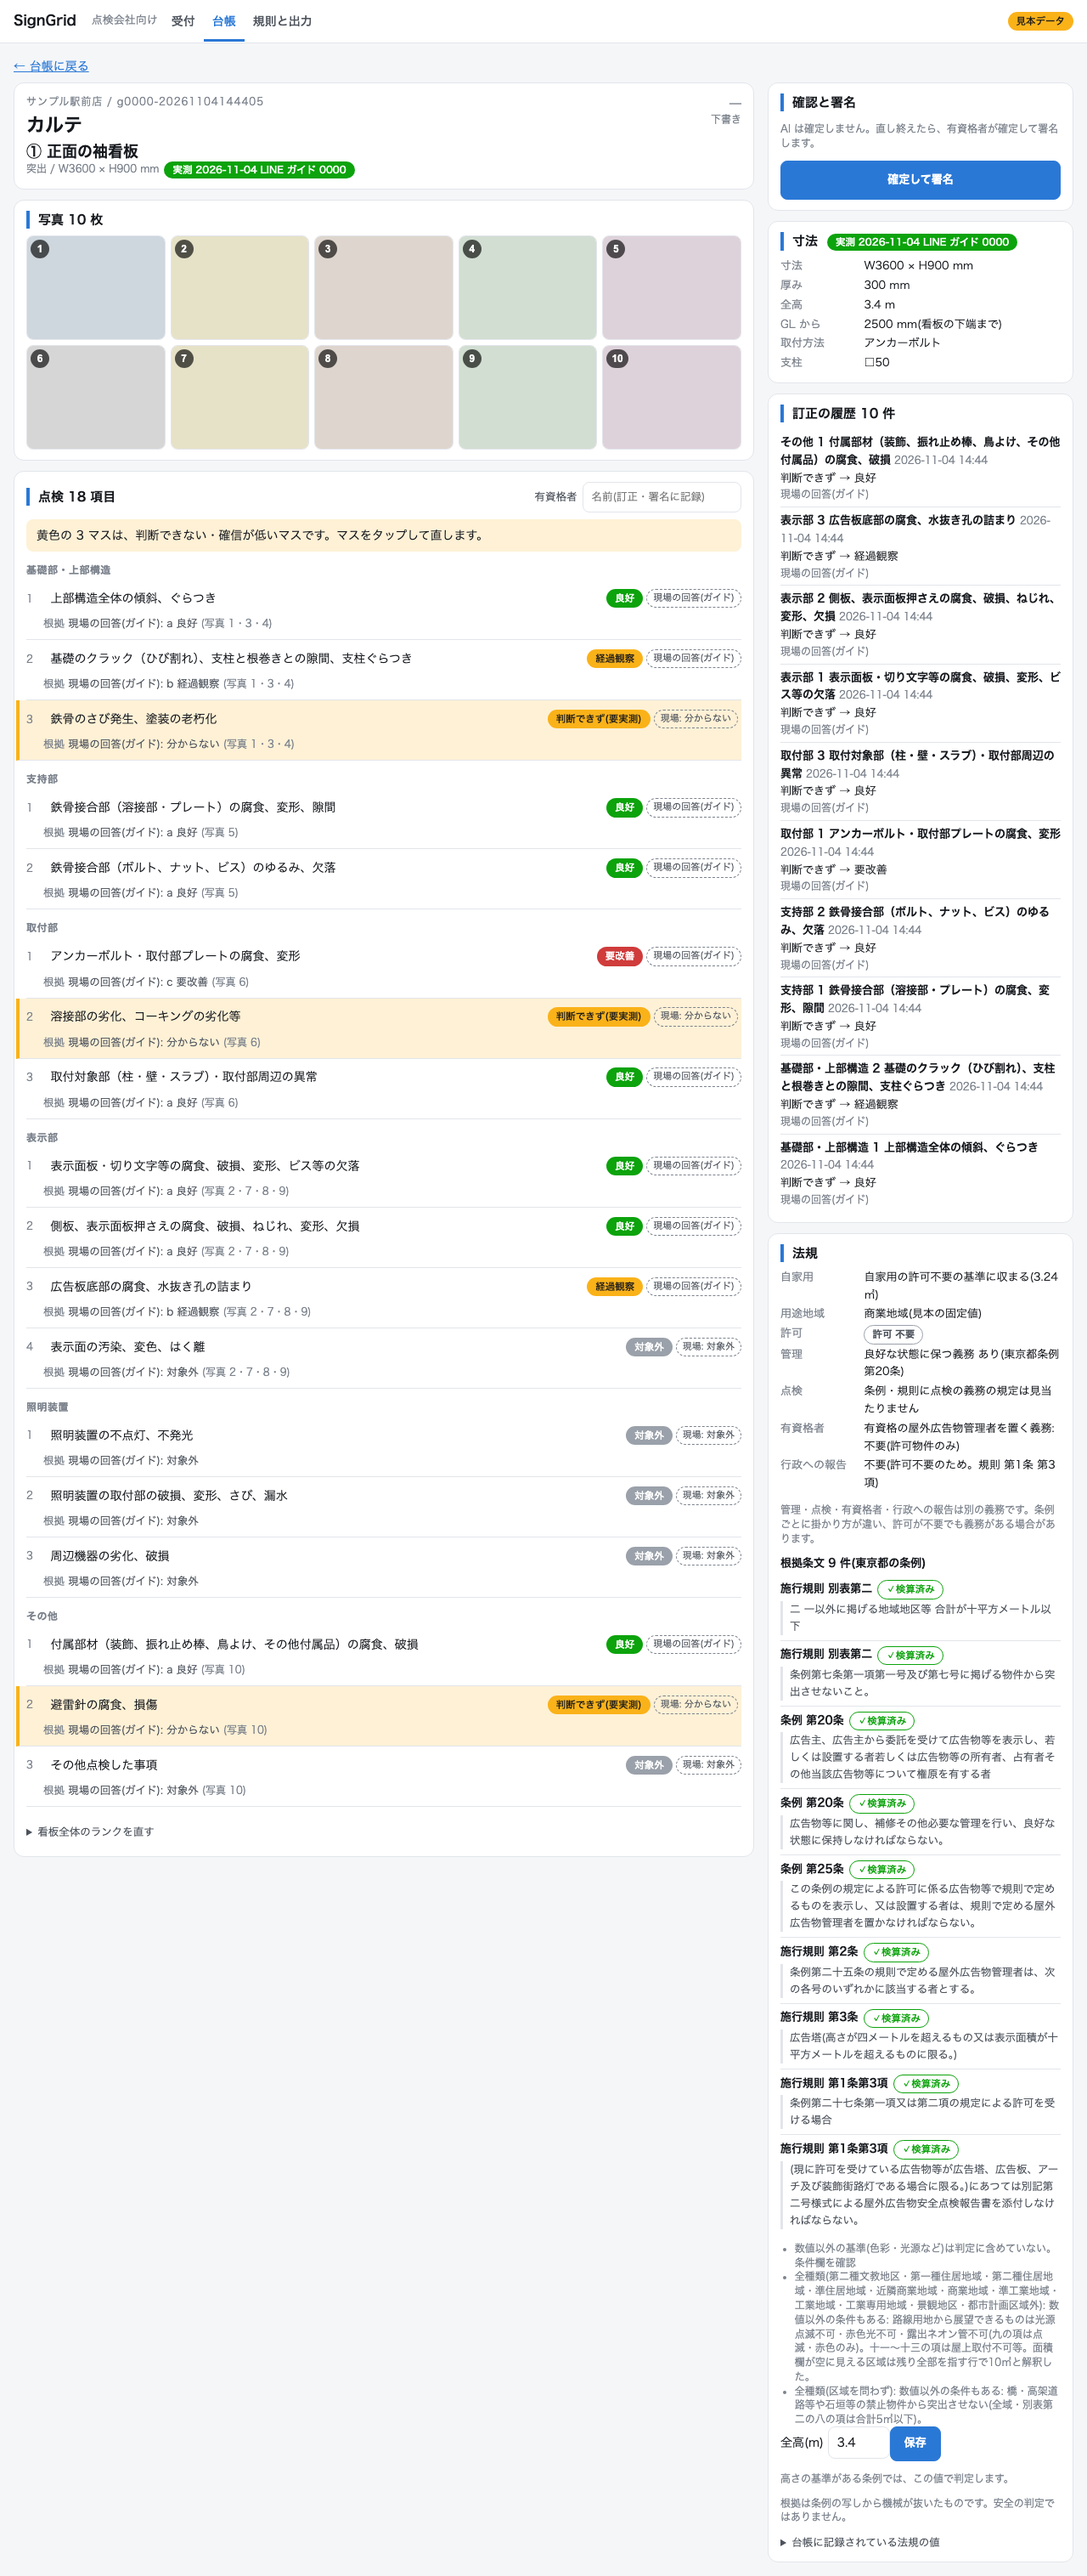
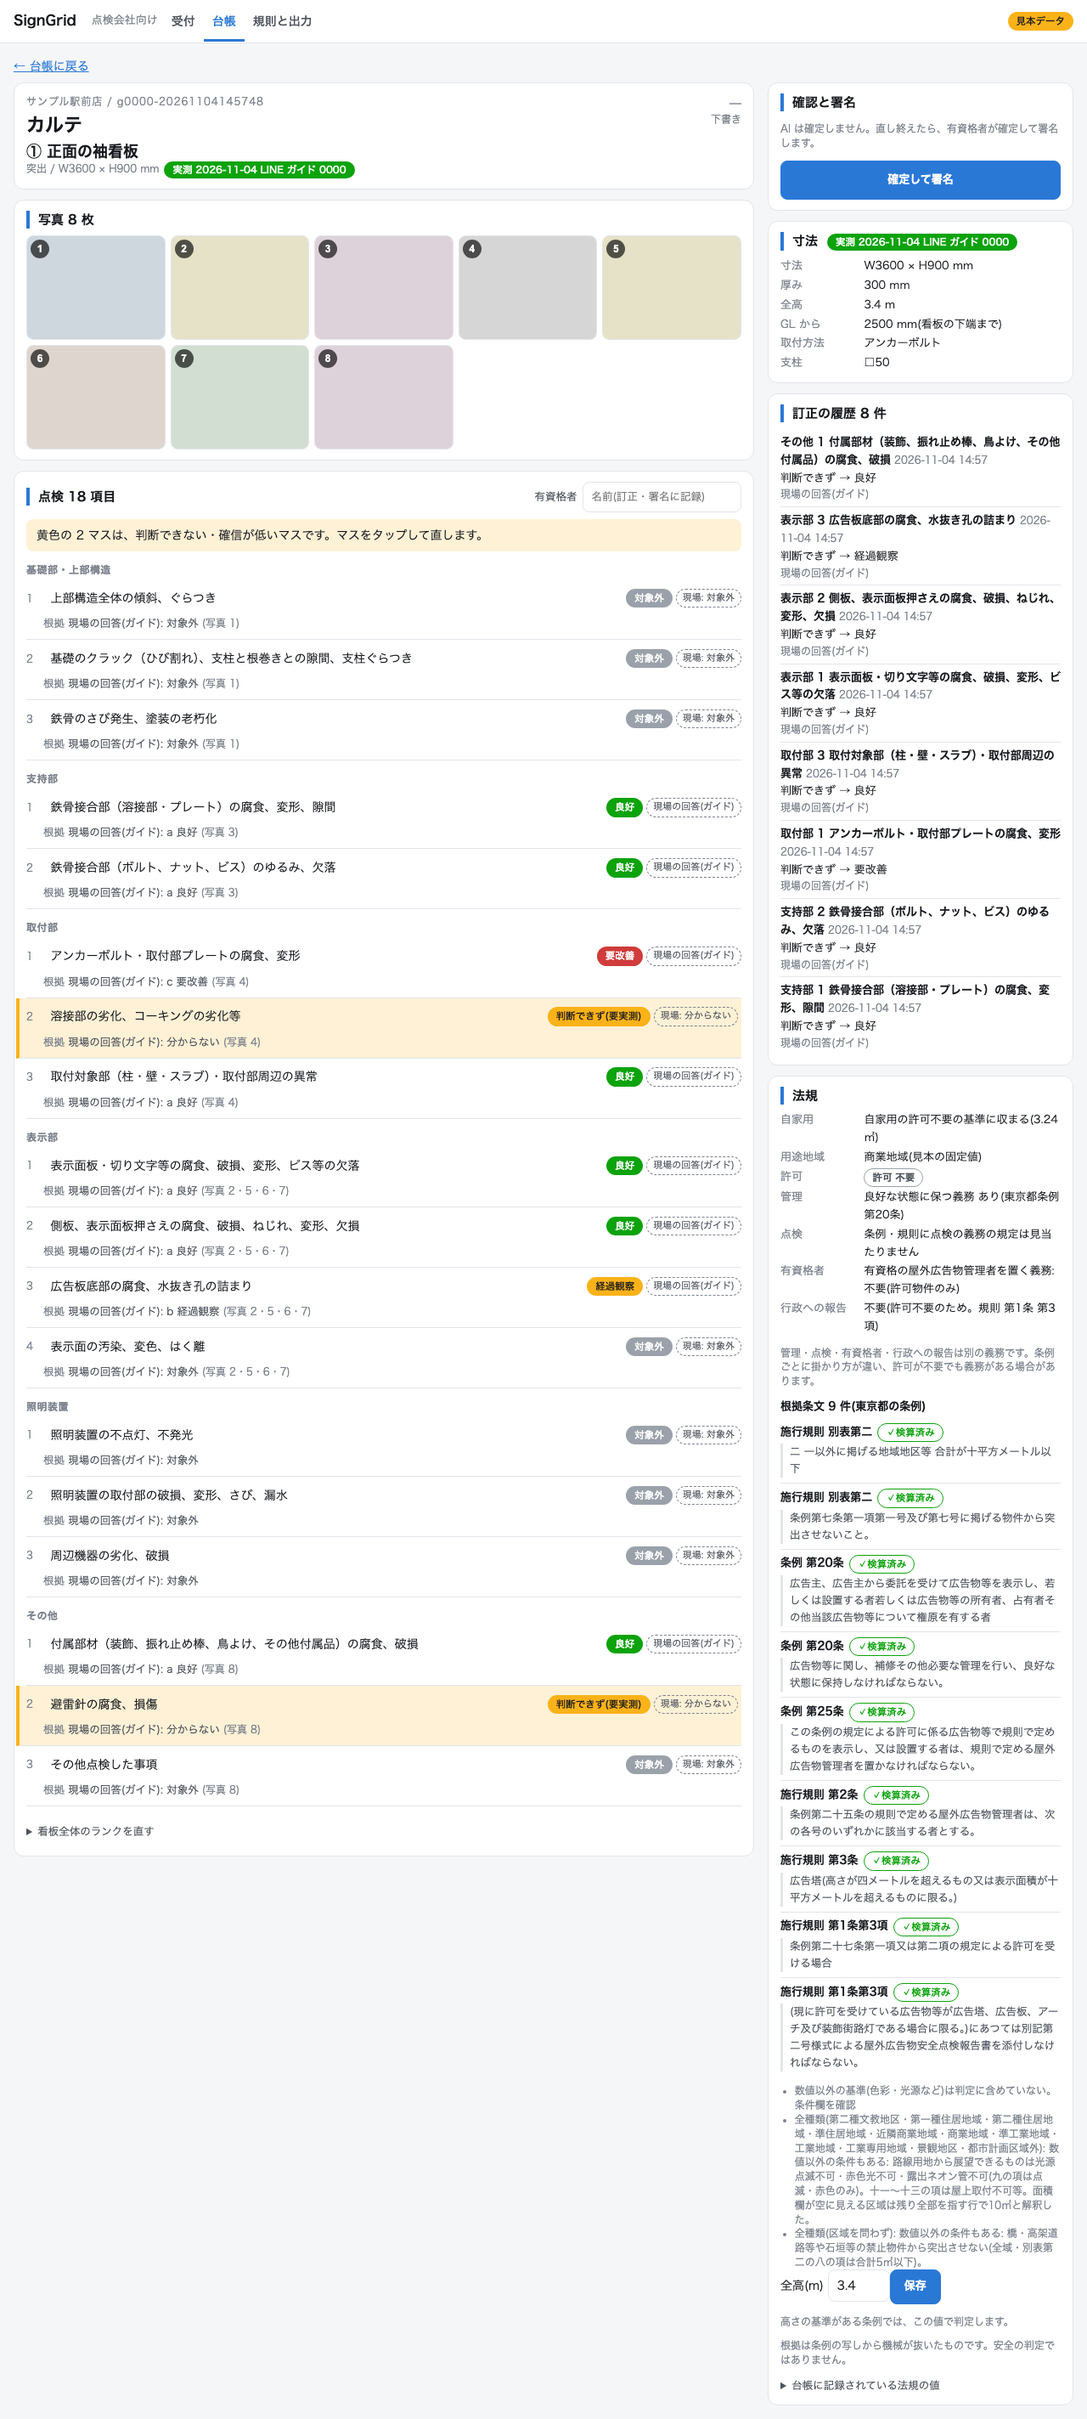
Sample guide plan: the projecting sign (1) answers 'no such part' for the foundation instead of sending two foundation photos; counts in tests, LINE.md example and guide-karte screenshots follow

diff --git a/tests/test_guide.py b/tests/test_guide.py
@@ -452,23 +452,23 @@ class SimulateTest(unittest.TestCase):
                 signs = lg.list_signs()
                 s = signs[0]
                 self.assertEqual(s.name, "① 正面の袖看板")
-                self.assertEqual(len(s.photos), 10)  # 全景1+正面1+部位8
+                self.assertEqual(len(s.photos), 8)  # 全景1+正面1+部位6(基礎部は「この部位は無い」)
                 self.assertEqual((s.size_w, s.size_h, s.size_d, s.gl_mm, s.height_m, s.size_source, s.mount, s.type),
                                  (3600, 900, 300, 2500, 3.4, "measured", "アンカーボルト", "突出"))
                 self.assertEqual([x.name for x in signs], ["① 正面の袖看板", "② 側面の看板", "① 正面の袖看板"])
                 self.assertIsNone(signs[1].size_w)  # ② は図面で送った(数字は事務所で入れる)
                 self.assertEqual((signs[1].type, len(lg.split_photos(signs[1])[1])), ("壁面", 1))
                 self.assertEqual((signs[2].size_w, signs[2].size_source), (3600, "measured"))  # ③ は①の実測を引き継いだ
-                self.assertEqual(len(s.items), 10)
-                self.assertEqual(sum(1 for v in s.evidence.values() if v["guide"] == "unknown"), 3)
-                self.assertEqual(sum(1 for v in s.evidence.values() if v["guide"] == "na"), 5)  # 表示部-4、照明装置3(この部位は無い)、その他-3
+                self.assertEqual(len(s.items), 8)
+                self.assertEqual(sum(1 for v in s.evidence.values() if v["guide"] == "unknown"), 2)
+                self.assertEqual(sum(1 for v in s.evidence.values() if v["guide"] == "na"), 8)  # 基礎部3・照明装置3(この部位は無い)、表示部-4、その他-3
             self.assertEqual(client.replies[-1][1], "終了しました")
             self.assertFalse(app.guide.active("Usimulated0000000000000000000000"))
 
     def test_operation_counts(self):
         with tempfile.TemporaryDirectory() as td:
             plan = build_guide_deliveries(PLAN, Path(td) / "c", run_id="t2")
-            self.assertEqual(plan.stats["photos"], 14)  # ①全景+正面+部位8、②全景+図面、③全景+正面
+            self.assertEqual(plan.stats["photos"], 12)  # ①全景+正面+部位6、②全景+図面、③全景+正面
             self.assertEqual(plan.stats["texts"], 8)    # 看板の名前3+①の幅・高さ・厚み・GL・支柱
 
 
